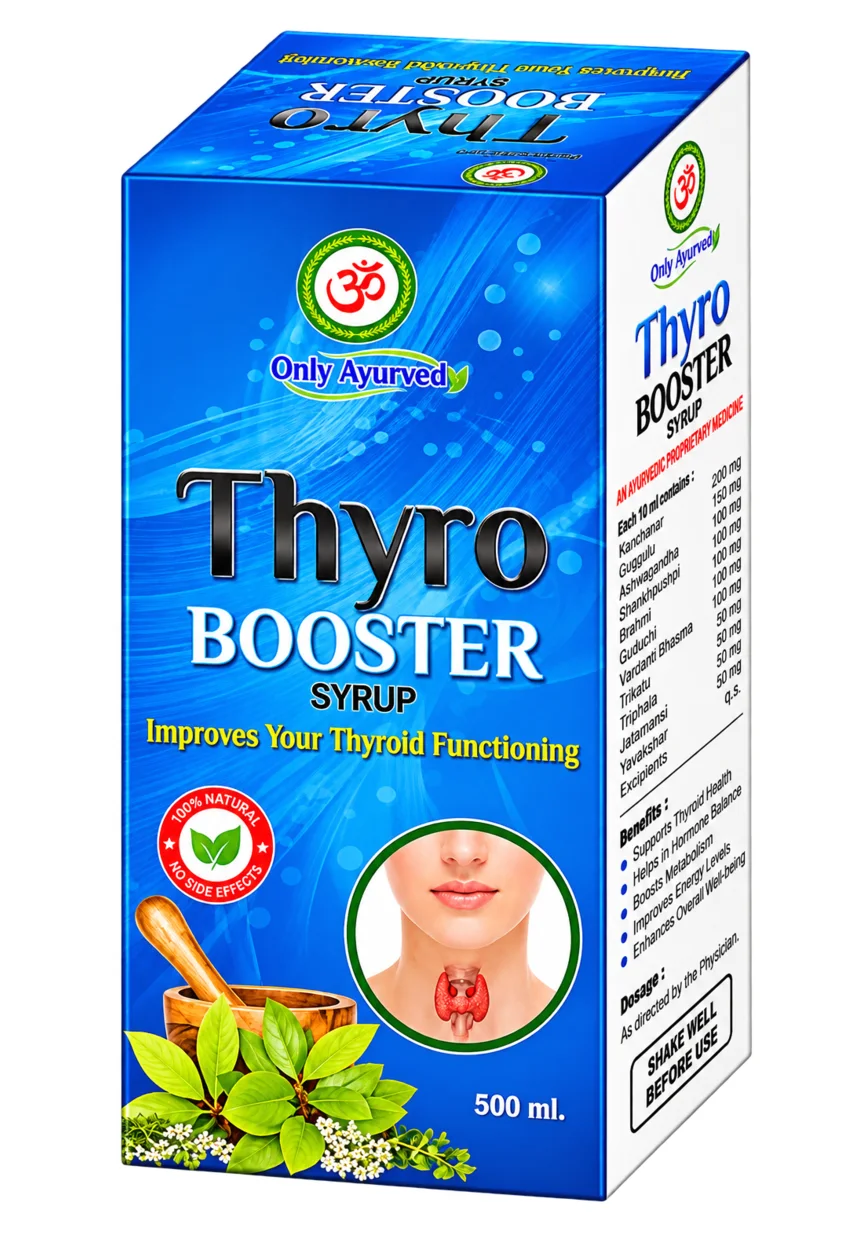
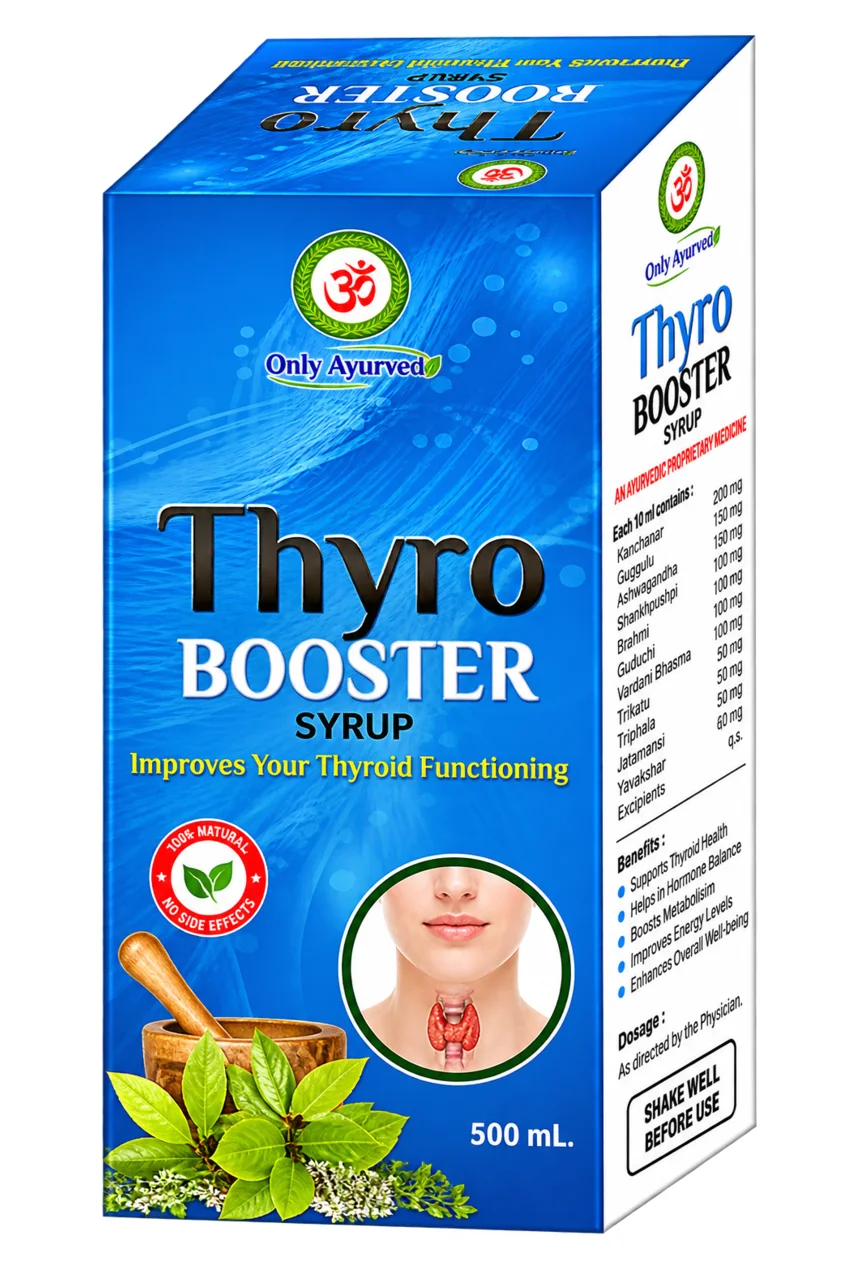
Set owner-supplied pack photos as primary for 10 more products (batch 7)
Heart Re Booster + Premium, Joint Re-Builder Syrup + Premium, Joint
Re-Builder Tablet, Joint Pain Oil, Joint Pain Liniment (Oil), Lipid Care,
Liver Reactivator and Stri Sanjivani move to <slug>-pack.webp primaries;
Sarva Dhatu Pushti and Thyro Booster get their newest designs. The
Vati Gutika category card follows the tablet photo; 7 old brochure
files are deleted. Photos labelled Sarva Dhatu Pushti / Thyro Booster
were NOT assigned to A2 Desi Ghee / Triphala Ashtamrit. Combined Neon
migration and DEPLOY.md refreshed to 82 products.

diff --git a/src/lib/brochure-data.ts b/src/lib/brochure-data.ts
@@ -89,23 +89,23 @@ const rows: CatalogRow[] = [
   { name: 'Gymnema Capsule', category: 'cat_capsules', packs: [['60 capsules', 540]], page: 13, image: 'gymnema-capsule-pack.webp', formulation: AyurvedicFormulation.CAPSULE },
   { name: 'Gau Amrit', category: 'cat_syrups_juices', packs: [['200 ml', 160], ['500 ml', 380]], page: 8, image: 'gau-amrit-pack.webp', formulation: AyurvedicFormulation.SYRUP },
   { name: 'H.B. Booster', category: 'cat_syrups_juices', packs: [['1 L', 580], ['200 ml', 160]], page: 8, image: 'h-b-booster-pack.webp', formulation: AyurvedicFormulation.SYRUP },
-  { name: 'Heart Re Booster', category: 'cat_syrups_juices', packs: [['500 ml', 460]], page: 6, image: 'pdf-p6-i6.webp', formulation: AyurvedicFormulation.SYRUP },
-  { name: 'Heart Re Booster Premium', category: 'cat_syrups_juices', packs: [['200 ml', 270]], page: 11, image: 'pdf-p6-i6.webp', formulation: AyurvedicFormulation.SYRUP },
+  { name: 'Heart Re Booster', category: 'cat_syrups_juices', packs: [['500 ml', 460]], page: 6, image: 'heart-re-booster-pack.webp', formulation: AyurvedicFormulation.SYRUP },
+  { name: 'Heart Re Booster Premium', category: 'cat_syrups_juices', packs: [['200 ml', 270]], page: 11, image: 'heart-re-booster-premium-pack.webp', formulation: AyurvedicFormulation.SYRUP },
   { name: 'Heart Fit', category: 'cat_capsules', packs: [['60 capsules', 450]], page: 4, image: 'heart-fit-pack.webp', formulation: AyurvedicFormulation.CAPSULE },
   { name: 'IB-9 Drop (Immunity Drops)', category: 'cat_arks_drops', packs: [['25 ml', 180]], page: 6, image: 'ib-9-drop-immunity-drops-pack.webp', formulation: AyurvedicFormulation.OTHER, ingredients: 'Mulethi, ashwagandha, giloy, curcumin, honey bee propolis, tulsi, ginger, cinnamon, neem, vitamin C and black pepper.' },
-  { name: 'Joint Re-Builder Syrup', category: 'cat_syrups_juices', packs: [['500 ml', 480]], page: 6, image: 'pdf-p6-i3.webp', formulation: AyurvedicFormulation.SYRUP },
-  { name: 'Joint Re-Builder Tablet', category: 'cat_vati_gutika', packs: [['30 tablets', 190], ['60 tablets', 380]], page: 6, image: 'pdf-p6-i2.webp', formulation: AyurvedicFormulation.TABLET },
-  { name: 'Joint Re-Builder Syrup Premium', category: 'cat_syrups_juices', packs: [['500 ml', 580]], page: 6, image: 'pdf-p6-i3.webp', formulation: AyurvedicFormulation.SYRUP },
+  { name: 'Joint Re-Builder Syrup', category: 'cat_syrups_juices', packs: [['500 ml', 480]], page: 6, image: 'joint-re-builder-syrup-pack.webp', formulation: AyurvedicFormulation.SYRUP },
+  { name: 'Joint Re-Builder Tablet', category: 'cat_vati_gutika', packs: [['30 tablets', 190], ['60 tablets', 380]], page: 6, image: 'joint-re-builder-tablet-pack.webp', formulation: AyurvedicFormulation.TABLET },
+  { name: 'Joint Re-Builder Syrup Premium', category: 'cat_syrups_juices', packs: [['500 ml', 580]], page: 6, image: 'joint-re-builder-syrup-premium-pack.webp', formulation: AyurvedicFormulation.SYRUP },
   { name: 'Joint Tablet Premium', category: 'cat_vati_gutika', packs: [['60 tablets', 440]], page: 6, image: 'joint-tablet-premium-pack.webp', formulation: AyurvedicFormulation.TABLET },
-  { name: 'Joint Pain Oil', category: 'cat_herbal_oils', packs: [['100 ml', 180]], page: 6, image: 'pdf-p6-i7.webp', formulation: AyurvedicFormulation.TAILA },
-  { name: 'Joint Pain Liniment (Oil)', category: 'cat_herbal_oils', packs: [['75 ml', 210]], page: 6, image: 'pdf-p6-i7.webp', formulation: AyurvedicFormulation.TAILA, ingredients: 'Sesame oil, flax oil, wintergreen oil, eucalyptus oil, ajwain oil, camphor oil, turpentine oil, peppermint oil, boswellia oil and turmeric oil.' },
+  { name: 'Joint Pain Oil', category: 'cat_herbal_oils', packs: [['100 ml', 180]], page: 6, image: 'joint-pain-oil-pack.webp', formulation: AyurvedicFormulation.TAILA },
+  { name: 'Joint Pain Liniment (Oil)', category: 'cat_herbal_oils', packs: [['75 ml', 210]], page: 6, image: 'joint-pain-liniment-oil-pack.webp', formulation: AyurvedicFormulation.TAILA, ingredients: 'Sesame oil, flax oil, wintergreen oil, eucalyptus oil, ajwain oil, camphor oil, turpentine oil, peppermint oil, boswellia oil and turmeric oil.' },
   { name: 'Kalonji Oil', category: 'cat_herbal_oils', packs: [['100 ml', 160]], page: 10, image: 'kalonji-oil-pack.webp', formulation: AyurvedicFormulation.TAILA },
   { name: 'Kidney Reactivator', category: 'cat_syrups_juices', packs: [['500 ml', 570]], page: 8, image: 'kidney-reactivator-pack.webp', formulation: AyurvedicFormulation.SYRUP },
   { name: 'Kwach Capsule', category: 'cat_capsules', packs: [['30 capsules', 460]], page: 11, image: 'kwach-capsule-pack.webp', formulation: AyurvedicFormulation.CAPSULE },
-  { name: 'Lipid Care', category: 'cat_syrups_juices', packs: [['200 ml', 220]], page: 4, image: 'pdf-p4-i10.webp', ingredients: 'Bhringraj, kasni, sarpunkha, bhumi amla, aloe vera, haritaki, punarnava, kalmegh, giloy, kutki, papaya, saunth, ajwain, marich, syonak, amla, arjuna, brahmi, adrak, ashwagandha, sarpgandha, guggul, shankhpushpi, allicin and pushkarmool.', formulation: AyurvedicFormulation.SYRUP },
+  { name: 'Lipid Care', category: 'cat_syrups_juices', packs: [['200 ml', 220]], page: 4, image: 'lipid-care-pack.webp', ingredients: 'Bhringraj, kasni, sarpunkha, bhumi amla, aloe vera, haritaki, punarnava, kalmegh, giloy, kutki, papaya, saunth, ajwain, marich, syonak, amla, arjuna, brahmi, adrak, ashwagandha, sarpgandha, guggul, shankhpushpi, allicin and pushkarmool.', formulation: AyurvedicFormulation.SYRUP },
   { name: 'Lungs Cleaner', category: 'cat_syrups_juices', packs: [['500 ml', 715], ['200 ml', 315]], page: 9, image: 'lungs-cleaner-pack.webp', formulation: AyurvedicFormulation.SYRUP },
   { name: 'Liv CA Capsule', category: 'cat_capsules', packs: [['60 capsules', 360]], page: 14, image: 'liv-ca-capsule-pack.webp', formulation: AyurvedicFormulation.CAPSULE },
-  { name: 'Liver Reactivator', category: 'cat_syrups_juices', packs: [['500 ml', 380], ['200 ml', 160]], page: 5, image: 'pdf-p5-i1.webp', ingredients: 'Bhringraj, kasni, sarpunkha, bhumi amla, aloe vera, haritaki, punarnava, kalmegh, giloy, kutki, papaya, saunth, ajwain, marich and syonak.', formulation: AyurvedicFormulation.SYRUP },
+  { name: 'Liver Reactivator', category: 'cat_syrups_juices', packs: [['500 ml', 380], ['200 ml', 160]], page: 5, image: 'liver-reactivator-pack.webp', ingredients: 'Bhringraj, kasni, sarpunkha, bhumi amla, aloe vera, haritaki, punarnava, kalmegh, giloy, kutki, papaya, saunth, ajwain, marich and syonak.', formulation: AyurvedicFormulation.SYRUP },
   { name: 'Memory Booster', category: 'cat_syrups_juices', packs: [['1 L', 580], ['200 ml', 160]], page: 7, image: 'memory-booster-pack.webp', ingredients: 'Brahmi, semal, niacin, shankhpushpi, yashtimadhu, ashwagandha, jatamasi, vach, tagar, malkangni and sarpgandha.', formulation: AyurvedicFormulation.SYRUP },
   { name: 'Miracle Roots', category: 'cat_syrups_juices', packs: [['500 ml', 580]], page: 7, image: 'miracle-roots-pack.webp', formulation: AyurvedicFormulation.SYRUP },
   { name: 'Musheal Capsule', category: 'cat_capsules', packs: [['60 capsules', 630]], page: 14, image: 'musheal-capsule-pack.webp', formulation: AyurvedicFormulation.CAPSULE },
@@ -126,7 +126,7 @@ const rows: CatalogRow[] = [
   { name: 'Skin Ark', category: 'cat_syrups_juices', packs: [['500 ml', 580]], page: 4, image: 'skin-ark-pack.webp', formulation: AyurvedicFormulation.SYRUP },
   { name: 'Skin Oil', category: 'cat_herbal_oils', packs: [['100 ml', 480]], page: 4, image: 'skin-oil-pack.webp', formulation: AyurvedicFormulation.TAILA },
   { name: 'Stone Away', category: 'cat_syrups_juices', packs: [['200 ml', 160]], page: 6, image: 'stone-away-pack.webp', formulation: AyurvedicFormulation.SYRUP },
-  { name: 'Stri Sanjivani', category: 'cat_syrups_juices', packs: [['1 L', 480], ['200 ml', 160]], page: 7, image: 'pdf-p7-i5.webp', formulation: AyurvedicFormulation.SYRUP },
+  { name: 'Stri Sanjivani', category: 'cat_syrups_juices', packs: [['1 L', 480], ['200 ml', 160]], page: 7, image: 'stri-sanjivani-pack.webp', formulation: AyurvedicFormulation.SYRUP },
   { name: 'Sarva Dhatu Pushti', category: 'cat_immunity_rasayana', packs: [['400 g', 1170]], page: 15, image: 'sarva-dhatu-pushti-pack.webp', formulation: AyurvedicFormulation.OTHER },
   { name: 'Sea Buckthorn Capsule', category: 'cat_capsules', packs: [['60 capsules', 760]], page: 13, image: 'sea-buckthorn-capsule-pack.webp', formulation: AyurvedicFormulation.CAPSULE },
   { name: 'Shatawari Capsule', category: 'cat_capsules', packs: [['60 capsules', 715]], page: 12, image: 'shatawari-capsule-pack.webp', formulation: AyurvedicFormulation.CAPSULE },

diff --git a/DEPLOY.md b/DEPLOY.md
@@ -40,7 +40,7 @@ Pick ONE path (never both on the same database):
   balance of 100 units for every brochure pack variant, with matching
   inventory-ledger rows; its marker makes a duplicate run safe and prevents
   later sales/manual corrections from being reset),
-  `20261025_replace_primary_product_images.sql` (points 72 products'
+  `20261025_replace_primary_product_images.sql` (points 82 products'
   primary photos at the new owner-supplied pack images
   `/products/<slug>-pack.webp`; run it only AFTER the deployment that
   contains those image files is live).
